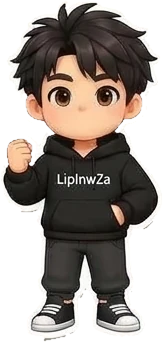
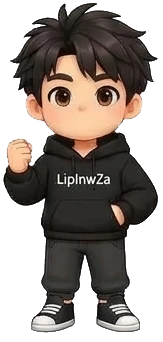
feat(v3.6): Glass Floating Tag ribbon, clean-cutout mascot & calibrated mouths

diff --git a/renderer/widgets.js b/renderer/widgets.js
@@ -834,10 +834,24 @@
     const rLayer = document.getElementById('ribbon-layer');
     if (beat.ribbon && theme.show_ribbon !== false) {
       const rCol = RIBBON_COLORS[beat.ribbon_color || 'red'] || RIBBON_COLORS.red;
+      const rStyle = theme.ribbon_style || 'glass_tag';
+      const rScale = springScale(age, 0.16).toFixed(3);
       if (theme.ribbon_style === 'pill') {
-        rLayer.innerHTML = `<div class="pill-ribbon" style="background:${rCol.bg};color:${rCol.fg};transform:scale(${springScale(age, 0.16).toFixed(3)});">${beat.ribbon}</div>`;
+        rLayer.innerHTML = `<div class="pill-ribbon" style="background:${rCol.bg};color:${rCol.fg};transform:scale(${rScale});">${beat.ribbon}</div>`;
+      } else if (rStyle === 'torn') {
+        rLayer.innerHTML = `<div class="torn-ribbon" style="background:${rCol.bg};color:${rCol.fg};transform:scale(${rScale}) rotate(-1.2deg);">${beat.ribbon}</div>`;
       } else {
-        rLayer.innerHTML = `<div class="torn-ribbon" style="background:${rCol.bg};color:${rCol.fg};transform:scale(${springScale(age, 0.16).toFixed(3)}) rotate(-1.2deg);">${beat.ribbon}</div>`;
+        const raw = String(beat.ribbon);
+        const sepIdx = raw.indexOf('·') !== -1 ? raw.indexOf('·') : raw.indexOf(':');
+        let innerHtml = '';
+        if (sepIdx > 0 && sepIdx < raw.length - 1) {
+          const leftPart = raw.slice(0, sepIdx).trim();
+          const rightPart = raw.slice(sepIdx + 1).trim();
+          innerHtml = `<span class="glass-tag-pill" style="background:${rCol.bg};color:${rCol.fg};">${leftPart}</span><span class="glass-tag-text">${rightPart}</span>`;
+        } else {
+          innerHtml = `<span class="glass-tag-dot" style="background:${rCol.bg};"></span><span class="glass-tag-text">${raw}</span>`;
+        }
+        rLayer.innerHTML = `<div class="glass-tag-ribbon" style="transform:scale(${rScale});">${innerHtml}</div>`;
       }
     } else {
       rLayer.innerHTML = '';

diff --git a/renderer/stage_template.html b/renderer/stage_template.html
@@ -178,7 +178,7 @@ html, body {
   height: 500px;
   width: auto;
   display: block;
-  filter: drop-shadow(5px 8px 0 rgba(24,27,38,0.28));
+  filter: drop-shadow(0px 10px 18px rgba(24,27,38,0.22));
 }
 #mascot-mouth-svg {
   position: absolute;
@@ -277,6 +277,46 @@ html, body {
   box-shadow: 0 8px 24px rgba(0,0,0,0.24);
   letter-spacing: 0.2px;
   transform-origin: center center;
+}
+.glass-tag-ribbon {
+  display: inline-flex;
+  align-items: center;
+  gap: 12px;
+  padding: 8px 20px 8px 10px;
+  border-radius: 15px;
+  background: rgba(255, 255, 255, 0.92);
+  backdrop-filter: blur(8px);
+  border: 2px solid rgba(24, 27, 38, 0.14);
+  box-shadow: 0 10px 26px rgba(15, 23, 42, 0.12);
+  color: #181B26;
+  font-size: 25px;
+  font-weight: 800;
+  letter-spacing: -0.2px;
+  transform-origin: center center;
+  max-width: 656px;
+}
+.glass-tag-pill {
+  display: inline-flex;
+  align-items: center;
+  padding: 4px 12px;
+  border-radius: 9px;
+  font-size: 20px;
+  font-weight: 800;
+  line-height: 1.25;
+  white-space: nowrap;
+}
+.glass-tag-dot {
+  width: 12px;
+  height: 12px;
+  border-radius: 999px;
+  flex: 0 0 12px;
+  margin-left: 6px;
+}
+.glass-tag-text {
+  line-height: 1.25;
+  white-space: nowrap;
+  overflow: hidden;
+  text-overflow: ellipsis;
 }
 #stage.layout-split #ribbon-layer { top: 96px; }
 #stage.layout-split #widget-stage {

diff --git a/skills/liplnwza-motion/SKILL.md b/skills/liplnwza-motion/SKILL.md
@@ -1,37 +1,222 @@
 ---
 name: liplnwza-motion
-description: สร้างวิดีโอโมชั่นแนวตั้ง LiplnwZa ตามมาตรฐาน v3.6 Living Stage (ต่อยอดจาก v3.4 Paper Stage 720x1280 @ 30fps, ล็อกซับสีกลางจอ y=672, มาสคอตเต็มตัว 16 ท่า + 8 มุมกล้อง, 7 ของเล่นคอมมิก + Sub-beat, 15 วิดเจ็ต + custom_html, ช่องทีวี Lemo) โดยตรวจต้นฉบับ เสนอข้อเสนอให้ฟิลิปอนุมัติ เรนเดอร์ QA ก่อนเต็มตอน และตรวจคุณภาพก่อนส่งไฟล์
+description: "LiplnwZa Motion Kit v3.6 Living Stage (backward-compatible with v3.4/v3.5): vertical 9:16 720x1280 @ 30fps/24fps Paper Stage (locked y=672 subtitles), 8 mascot blocking shots, 7 comic FX + sub-beat choreography, 16 poses + SVG mouths, custom_html + 15 widgets, Lemo TV/full_bleed slot, and 2-pass -14.5 LUFS audio."
 ---
 
-# LiplnwZa Motion (v3.6 Living Stage — ฐาน v3.4)
+# 🎬 LiplnwZa Motion Kit — Master Skill Specification (v3.4)
 
-> **ไฟล์นี้เป็นตัวชี้เท่านั้น — ไม่ใช่สเปกแยกอีกฉบับ**
-> สเปกหลักฉบับเดียวอยู่ที่ **`SKILL.md` ที่ราก repo** (`../../SKILL.md`)
-> อ่านไฟล์นั้นก่อนทุกครั้ง ถ้าข้อความใดในไฟล์นี้ขัดกับสเปกหลัก ให้ยึดสเปกหลัก
-> มาตรฐานงานใหม่คือ **v3.4 "Lean & Punchy" (ฟิลิปล็อก 2026-11-24)**:
-> Full-Canvas Paper Stage 9:16 `720x1280 @ 24fps` + Headless Chromium CDP,
-> มาสคอตเต็มตัว 16 ท่า + ปาก SVG 6 ทรง, 12 Animated Micro-Widgets,
-> ช่องทีวี `media_clip_frame` สำหรับคลิปสั้น 4–6 วิจาก Lemo-Opuscar,
-> ซับสีรายคำกึ่งกลางจอ `y=672` + Auto-Fit, Lip-Sync 2 โหมด
-> (Studio/MFA และ Express/24fps), BGM ลิขสิทธิ์ตัวเอง 3 แนว + 2-pass `-14.5 LUFS`
+> **ไฟล์นี้คือแหล่งความจริงเดียว (single source of truth) ของมาตรฐานงานใหม่.**
+> `skills/liplnwza-motion/SKILL.md` เป็นแค่ตัวชี้มาที่ไฟล์นี้ ห้ามตีความแยกกัน
+> `START_HERE.md` คือคู่มือเริ่มต้นด่วน ส่วน `layouts/aot/SPEC.md` คือสเปกของ
+> ตัวประกอบ AoT รุ่นเดิม (ดูหัวข้อสถานะเอนจินด้านล่าง) ถ้าเอกสารใดขัดกับ
+> ไฟล์นี้สำหรับงานใหม่ ให้ยึดไฟล์นี้เป็นหลัก
 >
-> ✅ **สถานะเอนจิน: IMPORTED 2026-11-24** — สคริปต์/แอสเสต v3.4
-> (`renderer/render_liplnwza_v3.py`, `renderer/stage_template.html`,
-> `renderer/widgets.js`, `renderer/audio_mixer.py`,
-> `assets_v3/mascot/mouth_anchors.json`, WebP 16 ท่า + 12 พร็อพใน `assets_v3/`)
-> อยู่ใน repo นี้แล้ว ตรวจรับตาม `V34-IMPORT-CHECKLIST.md` ที่ราก repo
-> ถ้าไฟล์เอนจิน v3.4 ขาดหาย ให้รายงานให้ Philip ทราบ ห้ามเรนเดอร์ปลอม
-> เครื่องยนต์เก่า `renderer/kit.py` ใช้ได้เฉพาะงานเดิมที่ฟิลิประบุชื่อไว้เท่านั้น
-> ห้ามสร้างงานใหม่บน SOP กระดาษเก่า
+> **เวอร์ชัน: v3.4 "Lean & Punchy" — ฟิลิปล็อก 2026-11-24**
+> ที่มา: หน้า Notion "LiplnwZa Motion Kit v3.4 — Production Spec, Installed
+> Skill & GitHub Sync Plan" (บันทึกผ่าน Gemini Task Web) + คำสั่งฟิลิป
+> 2026-11-24 เนื้อหาที่ Gemini เขียนไว้ใน Notion ถือเป็นข้อเสนอจนกว่าฟิลิป
+> จะยืนยันเอง — สเปกในไฟล์นี้คือส่วนที่ฟิลิปสั่งให้บันทึกไว้แล้ว
+>
+> ✅ **สถานะเอนจิน: IMPORTED 2026-11-24** — เอนจิน v3.4 นำเข้า repo นี้
+> แล้วจาก export ของสกิล `liplnwza-motion` บน Gemini Task Web
+> (คัดลอกแบบ byte-for-byte ตรวจรับตาม `V34-IMPORT-CHECKLIST.md`)
+> เรนเดอร์ด้วย `renderer/render_liplnwza_v3.py` ได้เลย แต่ต้องผ่าน
+> เกตเดียวในไฟล์นี้ก่อนเสมอ: ส่ง Beat Sheet ให้ฟิลิปอนุมัติก่อนสร้างงานจริง
+> ห้ามเรนเดอร์ปลอม ห้ามสร้างแอสเสตปลอม
 
-1. หา kit root แบบจำกัด: ใช้ LIP_MOTION_ROOT หากกำหนด หรือ kit ใน workspace ที่ผู้ใช้แนบ ให้มี START_HERE.md และ SKILL.md ที่ราก ถ้าไม่พบ ใช้โฟลเดอร์ที่เจ้าของระบุ https://drive.google.com/drive/folders/1sbnVgJ-w9AfzKlm35wJQXO-vhJPSCRK5 เพื่อดาวน์โหลดชุด หรือขอให้แนบ ZIP อย่าค้น private filesystem ทั้งเครื่อง สำหรับ installed skill ให้เปิด references/runtime.md เมื่อไม่แน่ใจการหา runtime และใช้ scripts/locate_kit.py ตรวจเฉพาะตำแหน่งที่ระบุ
-2. อ่าน SKILL.md ที่ราก repo (สเปกหลัก v3.4) แล้ว START_HERE.md, `layouts/aot/SPEC.md` (สเปกตัวประกอบเดิม — ส่วนที่ขัดกับ v3.4 ให้ยึด v3.4 สำหรับงานใหม่), references/WORKFLOW.md, STYLE.md; โหลด JOB_FORMAT.md เมื่อวางฉาก, AUDIO_AND_TIMING.md เมื่อเตรียมเสียง/คำ, ASSET_SOURCES.md เมื่อหาสื่อ, QUALITY.md ก่อนส่งออก
-3. ตรวจความสามารถที่มีจริง: เปิดต้นฉบับ/Drive, ดาวน์โหลด, filesystem, Python/FFmpeg, render และส่งไฟล์ได้หรือไม่ ถ้าไฟล์เอนจิน v3.4 ขาดหาย ให้รายงานให้ Philip ทราบ ห้ามอ้าง render pass; `python renderer/kit.py doctor` พิสูจน์เฉพาะเครื่องยนต์เก่าเท่านั้น
-4. รับเนื้อหา เก็บต้นทางและตรวจข้อกล่าวสำคัญ ห้ามใช้ชื่อ/thumbnail แทนเนื้อหาทั้ง YouTube ถ้าเข้าถึงไม่ได้บอกข้อจำกัดและขอ transcript/ไฟล์ที่จำเป็น
-5. สร้างงานตาม SOP ใน SKILL.md หลัก เสนอประเด็น บท เสียง ความยาว แนวภาพและสื่อ ต้นทุน/ข้อจำกัด ให้ Philip อนุมัติก่อนผลิตเต็ม ตัวอย่าง benchmark อนุมัติเฉพาะ technical test ของเครื่องเก่าเท่านั้น ห้ามใช้เป็นต้นแบบสไตล์
-6. หลังอนุมัติ ทำงานย่อยที่ย้อนกลับได้เองให้จบ ใช้ assets ของ Philip ก่อน แล้วค่อยหาสื่อที่มีสิทธิ์ตรงงาน จดที่มา และ label evidence/illustration/screen_recording ชัด ภาพประกอบงานใหม่ต้องเป็นภาพโค้ดล้วน + ช่องทีวี Lemo ตามสเปกหลัก ห้ามใช้ภาพ AI-generated เป็นภาพหลัก ไม่ใส่ Warodom likeness/voice/footage/course assets
-7. เตรียมเสียง words.json และ visemes.json จากเสียงจริง ไม่ใช้เวลาหารเท่าอ้าง sync ปากเป็น raster pronunciation approximation ไม่ใช่ rig 3D หรือ acoustic phoneme-perfect หากขาด alignment tools ให้บอกและเลือกทางที่มีจริง (Studio Mode ใช้ visemes.json จาก MFA; Express Mode สกัดท่าปาก 24fps จากเสียงอัตโนมัติ)
-8. เติม job spec ตรวจ validate และ preview บันทึก approval.json จากหลักฐาน owner จริง พร้อม digest ของ job/inputs รุ่นนั้น ห้ามอนุมัติตัวเอง ถ้าสาระ/เสียงหลักเปลี่ยนให้กลับตรวจใหม่ แต่ไม่ขออนุมัติซ้ำเพียงเพราะรายละเอียดประกอบงานเดิมเสร็จแล้ว
-9. Render ด้วยเอนจิน v3.4 (เรนเดอร์แผ่น QA `--qa-only` ตรวจภาพก่อนเรนเดอร์เต็มเสมอ) แล้วดู/ฟังและตรวจ QC ตาม QUALITY.md และเกณฑ์ v3.4 ใน SKILL.md หลัก ส่ง MP4, SRT, ซอร์สที่ส่งต่อได้, sources และรายงานสิ่งที่ตรวจจริง เก็บ SESSION.md ให้ AI ตัวถัดไปทำต่อได้
-10. ห้ามเผยแพร่ ซื้อบริการ ส่งหาคนอื่น โคลนเสียงใหม่ หรือเขียนทับต้นฉบับโดยไม่มีคำสั่งครอบคลุม ห้ามเรียกพร้อมโพสต์หากสิทธิ์/เนื้อหาค้างหรือฉบับเต็มยังไม่ผ่าน Philip ห้ามเผยแพร่รายละเอียดการโคลนเสียง (voice ID, ชื่อโมเดล, ค่า stability/similarity, ไฟล์เสียงอ้างอิง) ใน repo นี้หรือที่สาธารณะเด็ดขาด
-11. งานใหม่ใช้ความสามารถ **v3.6 Living Stage** (`--fps 30`, คงพื้นกระดาษ v3.4 + ล็อกซับ `y=672`, ใช้ `mascot_shot` สลับมุมไม่ซ้ำติดกันเกิน 2 บีต, ใช้ `comic_fx` / `data-at` จังหวะย่อย, **ห้าม** `mascot_flip` บนเสื้อที่มีคำว่า `LipinwZa`, รัน `--qa-only` ตรวจภาพก่อนเรนเดอร์เต็มทุกครั้ง และรัน `python -m unittest discover -s tests -p "test_v3*.py"` เมื่อแก้โค้ดเอนจิน)
+---
+
+## 📌 กฎเหล็กของระบบ (Golden Rules)
+
+1. **ห้ามแตะโฟลเดอร์ `_archive/` เด็ดขาด:** โฟลเดอร์นี้เป็นคลังเก็บของเก่า (v0.1) ที่มีบั๊กมุมปากมาสคอต (ถ้า checkout ใดไม่มีโฟลเดอร์นี้ กฎนี้ก็ไม่มีผลอะไร)
+2. **งานใหม่ใช้มาตรฐาน v3.4 ในไฟล์นี้เท่านั้น:** ห้ามสร้างงานใหม่บน SOP เก่าที่สอนใช้ `renderer/kit.py` แบบกระดาษ (`torn_paper`) อีก เครื่องยนต์เก่าที่อยู่ใน repo นี้ (`renderer/kit.py` v0.2.1 และ `layouts/aot/compose.py`) เป็น **legacy แช่แข็ง** — ใช้ได้เฉพาะงานเดิมที่ล็อกไว้และชุดทดสอบเท่านั้น ห้ามแก้พฤติกรรมเครื่องยนต์เก่าในงานอัปเกรดเอกสารนี้
+3. **ห้ามเผยแพร่รายละเอียดการโคลนเสียง:** ไฟล์เสียงอ้างอิง, voice ID, ชื่อโมเดลเสียง, ค่า stability/similarity หรือรายละเอียดการโคลนเสียงใดๆ **ห้ามอยู่ใน repo นี้หรือที่สาธารณะ** รายละเอียดงานเสียงของเจ้าของเก็บไว้นอก repo เท่านั้น เสียงโคลนใช้กับคลิปคอนเทนต์เท่านั้น — **คลิปขายสินค้าใช้เสียงอัดจริงของฟิลิปเท่านั้น ห้ามใช้เสียงโคลน** ข้อนี้อยู่เหนือกฎอื่นทั้งหมด
+4. **ฟิลิปอนุมัติบทและเสียงก่อนเรนเดอร์เสมอ** ห้ามเผยแพร่โดยไม่ได้รับอนุมัติ ห้ามเขียนทับไฟล์สำเร็จรูป — งานใหม่ทุกครั้งต้องเป็นไฟล์ใหม่
+5. **ข้อความบนจอมาจากบทที่อนุมัติเท่านั้น** ห้ามคิดคำใหม่ใส่เอง
+
+---
+
+## 🏗 สถาปัตยกรรม v3.4 (2-Tier Architecture)
+
+- **Tier 1 — เวทีหลัก:** Full-Canvas Paper Stage 9:16 สไตล์ Warodom Paper-Cut Collage หนึ่งเวทีเต็มจอ
+- **Tier 2 — ตัวละคร + วิดเจ็ต + จอทีวี:** มาสคอต LiplnwZa เต็มตัว + 12 Animated Micro-Widgets + ช่องจอทีวี `media_clip_frame` สำหรับฉายคลิปสั้นจากสกิล Lemo-Opuscar โดยไม่ทำให้เอกลักษณ์ช่องแตก
+- **เอนจินเรนเดอร์:** Offline Headless Chromium CDP (`JPEG q=92`, Lazy WebP Loading, เร็ว ~7.2 fps, ใช้ฟอนต์ระบบ `NotoSansThai-Bold.ttf` ไม่ต้องพกไฟล์ `.ttf`)
+- **เอาต์พุต:** H.264, `-movflags +faststart`, แบ่งเรนเดอร์ `--chunk-frames 120`
+- **ไฟล์เอนจิน (นำเข้าแล้ว 2026-11-24):** `renderer/render_liplnwza_v3.py`, `renderer/stage_template.html`, `renderer/widgets.js`, `renderer/audio_mixer.py`, `assets_v3/mascot/mouth_anchors.json` + แอสเสต WebP ใน `assets_v3/` (ดูรายการตรวจรับใน `V34-IMPORT-CHECKLIST.md`) — ปาก 6 ทรงเป็น SVG แบบ procedural ที่ `widgets.js` สร้างขึ้น ไม่ใช่ไฟล์ SVG แยก
+
+---
+
+## 📐 เลย์เอาต์ที่ล็อก (720×1280 @ 24fps)
+
+| โซน | ตำแหน่ง | กฎ |
+| --- | --- | --- |
+| ริบบิ้นบน | `y=144` | ป้ายหัวข้อของเวที |
+| เวที 12 วิดเจ็ต | `y=214..659` | วิดเจ็ตแอนิเมชัน + พื้นหลังของเวที กล้องและทรานซิชั่นทำงานเฉพาะโซนนี้ |
+| ซับสีรายคำ | **`y=672` กึ่งกลางจอ** | พ้นแถบ UI TikTok 100% + Auto-Fit กันล้นขอบ (ดูหัวข้อซับไตเติล) |
+| มาสคอตเต็มตัว | ล่างซ้าย ขนาด `500px` | **ยืนนิ่งนอก Camera Rig** — หายใจเบาๆ `±2.2px` เท่านั้น ไม่เด้งตามเสียง |
+
+- **กล้อง 4 แบบ** (`push_in`, `pull_out`, `focus_tv`, `punch_in`) และ **ทรานซิชั่นกระดาษ 4 แบบ** (`paper_slide`, `page_peel`, `whip_zoom`, `ink_flash`) ทำงานเฉพาะเวที Widget + พื้นหลังเท่านั้น ห้ามขยับมาสคอตหรือซับ
+- มาสคอตต้อง settle ก่อนจุดตัดเสมอ โมชันห้ามวิ่งชนจุดตัดโดยไม่มีจังหวะหยุด
+
+---
+
+## 🎭 มาสคอต + ปาก + พร็อพ/บอทสมทบ
+
+- **มาสคอตเต็มตัว 16 ท่า** — Mouthless Clean Plate WebP รวม 220.8 KB: `wave`, `pointer`, `clipboard`, `confident`, `magnify`, `laptop_focus`, `laptop_smile`, `cheer`, `facepalm`, `thinking_chin`, `shocked`, `holding_card`, `thumbs_up_full`, `newspaper_hold`, `shrug`, `idea_finger`
+- **ปากเวกเตอร์ SVG 6 ทรง** (`CLOSED`, `AA`, `EE`, `OH`, `OO`, `FV`) ไร้รอยซ้อน เปลี่ยนท่าปากต่อเนื่อง ไม่สลับสไปรต์แบบตัดทันที ตำแหน่งปากอ้างอิง `mouth_anchors.json`
+- **ชุดพร็อพ & บอทสมทบ 12 ชิ้น** — WebP โปร่งใส รวม 88.4 KB ใช้ Lazy Asset Loading: `bot_curious`, `bot_cheer`, `bot_shock`, `badge_alert`, `badge_check`, `badge_question`, `pointer_stick`, `clipboard`, `magnifying_glass`, `laptop`, `newspaper`, `lightbulb`
+- **มาสคอตมาจาก master lock + rig เท่านั้น ห้ามเจนมาสคอตใหม่ด้วย AI** ท่าเพิ่มต้องมาจากร่างเดิม
+
+---
+
+## 🖼 ภาพประกอบ — ภาพโค้ดล้วน + Lemo TV Slot เท่านั้น
+
+- **ภาพประกอบของงานใหม่ = ภาพโค้ดล้วน (HTML/CSS/SVG + Animated Micro-Widgets) เท่านั้น** ห้ามใช้ภาพ AI-generated เป็นภาพหลัก ห้ามใช้ภาพถ่ายเป็นภาพหลัก (กฎเดียวกับ `layouts/aot/SPEC.md` ฉบับอัปเดต)
+- **Lemo TV Slot (`media_clip_frame`):** ช่องจอทีวีกรอบกระดาษสำหรับแปะคลิปสั้น **4–6 วินาที** จากสกิล Lemo-Opuscar **ทั้ง 25 แบบ** ใช้กล้อง `focus_tv` ตอนฉาย คลิปที่แปะต้องมีสิทธิ์ใช้ชัดและบันทึกที่มาไว้ใน job manifest
+- ทุกสื่อที่ใช้ต้องมีที่มาใน `media/_ที่มา.txt` และลงทะเบียนใน `job.json` ให้ครบตาม schema — อ่าน [คู่มือแหล่งสื่อและสิทธิ์](assets/ASSET_SOURCES.md) ก่อนเลือกสื่อทุกครั้ง อย่าอนุมัติหรือเผยแพร่ job ที่ยังตรวจ license ของไฟล์จริงไม่ครบ
+
+---
+
+## 💬 ซับไตเติลสีรายคำ
+
+- วาง**กึ่งกลางจอที่ `y=672`** พ้นแถบ UI TikTok 100% พร้อม **Auto-Fit กันล้นขอบ**
+- แยกเป็นคำ/วลีสั้นก่อนเรนเดอร์เสมอ ห้ามเอาประโยคยาวทั้งก้อนขึ้นเป็นชิปเดียว
+- เวลาของคำมาจาก pipeline จับเวลาเท่านั้น (MFA Studio Mode หรือ Express Mode) ห้ามเขียนเวลาด้วยมือ ห้ามกะเวลาจากความยาวตัวอักษร
+- ฟอนต์เรนเดอร์ของ v3.4 คือฟอนต์ระบบ `NotoSansThai-Bold.ttf` (ดูหัวข้อสถาปัตยกรรม) ส่วนงาน legacy ยังใช้ Prompt-Bold ตามสเปกเดิมของมัน
+
+---
+
+## 👄 Lip-Sync 2 โหมด
+
+- **Studio Mode:** อ่าน `visemes.json` จาก MFA (การจัดแนวเสียงกับบทที่อนุมัติแล้ว)
+- **Express Mode:** สกัดท่าปาก 24fps จากคลื่นเสียง `vo_path` อัตโนมัติ ไม่ต้องมีไฟล์ visemes มาก่อน
+- ทั้งสองโหมดขับปาก SVG 6 ทรงเดียวกัน — โหมดเป็นวิธีได้มาซึ่งท่าปาก ไม่ใช่คนละระบบปาก
+
+---
+
+## 🔊 เสียง & BGM (ลิขสิทธิ์ตัวเอง)
+
+- **BGM 3 แนว สร้างอัตโนมัติใน `/tmp/liplnwza_v3_bgm/`:** `funk_brass` — **เพลงหลัก 118 BPM** (Cory Wong Funk + Brass Stabs), `warm_groove` (108 BPM), `mystery_pulse` (104 BPM)
+- **Mid-Band Ducking (300Hz–4kHz)** ระหว่างเสียงพากย์กับ BGM + Foley ตามเหตุการณ์ภาพ
+- **2-pass `-14.5 LUFS` + faststart** สำหรับงานใหม่ v3.4 (ค่า `-16 LUFS` ในสเปก/เกทเดิมใช้กับเครื่องยนต์ legacy เท่านั้น)
+- **ไม่มีไฟล์เสียงจริง bundle ลง repo** และห้ามนำเสียงสังเคราะห์มาเสนอว่าเป็น SFX จริง — เสียงสังเคราะห์ใช้ทดสอบโค้ดใน `/tmp` ได้เท่านั้น
+
+---
+
+## ⚡ กระบวนการทำงาน 4 ขั้นตอน (SOP — v3.4)
+
+### ขั้นที่ 1: รับ Input จากฟิลิป (Ingest & Analyze)
+สิ่งที่ฟิลิปจะส่งมาให้:
+1. **ไฟล์เสียงพากย์ที่ผ่านอนุมัติแล้ว** (`voice.mp3` หรือ `voice.wav`) — เสียงที่เจ้าของฟังอนุมัติแล้ว หรือไฟล์เสียงอัดจริงที่ฟิลิปส่งมาเอง
+2. **หัวข้อ/เป้าหมายของคลิป** (Topic Brief)
+3. **คลิปสำหรับช่องทีวี** (ถ้ามี — คลิปสั้น 4–6 วิจาก Lemo-Opuscar พร้อมที่มา/สิทธิ์)
+
+### ขั้นที่ 2: วางแผนก่อนสร้าง (Pre-production Beat Sheet)
+**ห้ามเรนเดอร์ทันที** ให้สร้างแผนฉากส่งให้ฟิลิปตรวจก่อน:
+- แบ่งฉาก 5–6 ฉากย่อยตามจังหวะเว้นวรรคของเสียงพูด
+- กำหนดวิดเจ็ต 12 ตัว กล้อง 4 แบบ ทรานซิชั่น 4 แบบ และช่องทีวี (ถ้ามี) ต่อฉาก
+- เลือกท่ามาสคอต 16 ท่าให้ตรงกับอารมณ์ฉาก
+- ส่ง Beat Sheet ให้ฟิลิปตรวจและรอคำสั่ง **"อนุมัติสร้าง"**
+
+### ขั้นที่ 3: ประกอบไฟล์งาน (Assembly & Automation)
+1. เตรียมชุดรับมอบเสียง: `voice.wav` + `words.json` (เวลาระดับคำที่ตรวจเทียบเสียงจริงแล้ว) + `visemes.json` (Studio Mode) — Express Mode สกัดท่าปากจากเสียงอัตโนมัติแทนได้
+2. เขียน job spec ของงาน (ฉาก ข้อความ ท่า วิดเจ็ต กล้อง ทีวีสล็อต) ตาม schema ของเอนจิน v3.4 ใน `references/scene_spec_schema.md`
+3. สร้างค่าอนุมัติ (job digest) ใส่ใน `approval.json` (`status: "approved"`) จากหลักฐานการอนุมัติของเจ้าของงานจริง ห้ามอนุมัติตัวเอง
+
+### ขั้นที่ 4: สั่งเรนเดอร์และตรวจ QC (Render & Delivery)
+1. เรนเดอร์ด้วยเอนจิน v3.4 (`renderer/render_liplnwza_v3.py`) ที่ 720×1280 @ 24fps แบบ `--chunk-frames 120` — เรนเดอร์แผ่น QA (`--qa-only`) ตรวจภาพก่อนเรนเดอร์เต็มเสมอ
+2. ตรวจ QC ตามเกณฑ์ด้านล่างจากไฟล์ MP4 จริง ไม่ใช่จากแผน
+3. ส่ง MP4, SRT, ซอร์สที่ส่งต่อได้, sources และรายงานสิ่งที่ตรวจจริง เก็บ SESSION.md ให้ AI ตัวถัดไปทำต่อได้
+
+---
+
+## 🎯 เกณฑ์การผ่าน QC ที่ต้องรายงานเจ้าของงาน (งานใหม่ v3.4)
+- [ ] ขนาดภาพ: 720×1280 (9:16 แนวตั้ง), 24 fps, faststart
+- [ ] Decode Errors: 0
+- [ ] ความดังเสียง: 2-pass −14.5 LUFS (True Peak ≤ −1.0 dBTP) วัดจาก MP4 จริง
+- [ ] ซับไตเติล: อยู่กึ่งกลาง y=672, Auto-Fit ไม่ล้นขอบ, เด้งคำต่อคำตรงเสียงพูด, ตัวอักษรไทยสระ/วรรณยุกต์ไม่ซ้อนทับ
+- [ ] มาสคอต: ยืนนิ่งนอก Camera Rig มีแค่หายใจ ±2.2px ปาก SVG ขยับตามเสียงจริง ไร้รอยซ้อน
+- [ ] กล้อง/ทรานซิชั่น: ทำงานเฉพาะเวที Widget + พื้นหลัง ไม่ขยับมาสคอตหรือซับ
+- [ ] ภาพประกอบ: โค้ดล้วน + ช่องทีวีตามสิทธิ์เท่านั้น ไม่มีภาพ AI-generated เป็นภาพหลัก
+
+---
+
+## 🔒 ด่านตรวจสายพาน P0/P1 (ใช้กับทุกเอนจิน — เครื่องมือที่ระบุคือชุดปัจจุบันใน repo)
+
+เครื่องมือเหล่านี้เป็นด่านตรวจก่อน/หลังประกอบ แยกจาก QC ท้ายคลิป — ห้ามใช้แทนกัน และห้ามข้ามด่านใดด่านหนึ่งโดยไม่บอกเจ้าของงาน เอนจิน v3.4 ที่นำเข้าต้องบังคับใช้หลักการเดียวกันนี้:
+
+- **ก่อนประกอบ — `renderer/preflight.py`**: ตรวจ hash เสียงที่ล็อกไว้, คำต่อกันเท่าบทเป๊ะ, provenance ตรง, บัญชีภาพครบ (ชื่อตรง manifest เท่านั้น ห้ามเดาชื่อไฟล์แบบ glob), ขอบบีตตรง onset ภายใน 0.02 วิ, จำนวนเฟรมจากความยาวเสียงจริง ถ้าผิดข้อใดข้อหนึ่งให้หยุดทันที ห้ามประกอบต่อ
+- **จับเวลาด้วย MFA — `renderer/mfa_to_cues.py`**: รับไฟล์ MFA JSON + บท + merge-map ของงานนั้น แล้วออกชิปพร้อม provenance sidecar ต่อตัวอักษรต้องเท่าบทเป๊ะ ไม่งั้น fail ดังๆ ไม่เดา ข้อมูลคำ/merge-map เป็นของงานนั้นๆ ห้าม hardcode ลงเครื่องมือกลาง
+- **ปากซ้ำเวลา — `renderer/dedup_visemes.py`**: รวม viseme ให้เหลือตัวเดียวต่อ timestamp (ตัวสุดท้ายชนะอย่างชัดเจน) ก่อนส่งให้ rig — ห้ามให้ rig เลือกตามลำดับไฟล์แบบเงียบๆ
+- **QC ภาพตามเฟรม — `tests/qc.py`**: ดึงเฟรมตามเลขเฟรมเท่านั้น จุดตัด = `ceil(boundary × fps)` ตรวจ 3 เฟรมต่อจุดตัด (ก่อน/ที่/หลังจุดตัด)
+- **หลังเรนเดอร์ — `renderer/post_render_gate.py`**: loudnorm 2-pass บนไฟล์ mp4 แล้ว gate จากไฟล์ mp4 จริง (ไม่ใช่จาก wav): ความยาว ±0.05 วิ, จำนวนเฟรมครบ, ค่า LUFS/TP ตามเกณฑ์ของเอนจินที่ใช้ กับดักที่วัดมาแล้ว: โหมด linear ไม่จำกัดพีคจริง จึงต้องตั้งเป้า TP −2.0 ในฟิลเตอร์ + บังคับ AAC 192k ไม่งั้นพีคทะลุได้
+- **บัญชีภาพงาน — `renderer/verify_manifest.py --job-manifest`**: ตรวจบัญชีภาพของงาน (ไฟล์ครบ, สถานะ accepted, sha ตรง, ขนาดขั้นต่ำตามสเปกของเอนจินที่ใช้, ไฟล์ที่ถูกตีกลับต้องไม่อยู่ในโฟลเดอร์ภาพที่ใช้ประกอบ)
+- **วินัยสคริปต์เสียง**: สคริปต์รันเสียงทุกตัวต้องขึ้นต้นด้วย `set -euo pipefail`, ออกด้วย exit code ของตัวเจนเสียงทันทีถ้าพัง (ห้ามให้คำสั่งท้ายไฟล์กลบโค้ดพังจนรายงานว่าสำเร็จ), copy takes ไปโฟลเดอร์ถาวรทันทีที่เจนจบแล้วตรวจจำนวนไฟล์ครบก่อนจบสคริปต์
+- **กลไก guard ของ offset**: เครื่องมือกลางห้าม hardcode ค่า offset ใดๆ เป็น default — แต่ละงานล็อกค่าของตัวเองไว้ใน manifest ของงาน และ preflight ตรวจว่าค่าไม่ขยับโดยไม่มี sync test ที่เจ้าของงานตัดสิน การเปลี่ยน offset เป็นเรื่อง P2 ต้องให้เจ้าของงานตัดสินแยกต่างหาก
+- **บทเรียนจากสายประกอบที่แก้แล้ว (ห้ามทำซ้ำ)**: จุดตัดต้องเป็นเลขเฟรมจำนวนเต็ม, เฟรมแรกต้องเป็นบีตแรกเสมอ, หน้าต่างแถวซับห้ามซ้อนกัน, จำนวนเฟรมต้องคำนวณจากเสียงจริง, path ต้องสัมพัทธ์จากไฟล์สคริปต์, โซนชิปกับมาสคอตต้องห่างกันอย่างน้อย 20px
+
+---
+
+## 🛠 โครงสร้างไฟล์ใน repo (Repository Architecture)
+
+```text
+liplnwza-motion-kit/
+├── SKILL.md                          ← [สเปกหลักฉบับนี้ — แหล่งความจริงเดียวของ v3.4]
+├── skills/liplnwza-motion/SKILL.md   ← ตัวชี้มาที่ SKILL.md หลัก + กติกาควบคุมงาน (ห้ามตีความแยก)
+├── START_HERE.md                     ← คู่มือเริ่มต้นด่วน (อ่านไฟล์นี้ก่อนเมื่อเริ่มงานใหม่)
+├── V34-IMPORT-CHECKLIST.md           ← รายการตรวจรับการนำเข้าเอนจิน/แอสเสต v3.4
+├── README.md                         ← ภาพรวมคลังโค้ด, Quickstart, และคู่มือติดตั้ง
+├── AGENTS.md                         ← สเปกยุคแรก (legacy) สำหรับสไตล์กระดาษ — อ่านหมายเหตุหัวไฟล์ก่อนใช้
+├── renderer/                         ← เครื่องยนต์ใน repo
+│   ├── v34_spec.py                   ← ค่าคงที่สเปก v3.4 ที่ล็อกไว้ (อ่านอย่างเดียว ไม่ใช่เอนจินเรนเดอร์)
+│   ├── render_liplnwza_v3.py         ← [v3.4] เอนจินเรนเดอร์ CDP หลัก
+│   ├── audio_mixer.py                ← [v3.4] มิกซ์เสียง + BGM + Foley + loudnorm
+│   ├── stage_template.html           ← [v3.4] เทมเพลต Full-Canvas Paper Stage
+│   ├── widgets.js                    ← [v3.4] 12 วิดเจ็ต + ปาก SVG แบบ procedural
+│   ├── kit.py                        ← [LEGACY แช่แข็ง] CLI เครื่องยนต์กระดาษ v0.2.1
+│   ├── new_job.py / prepare_cues.py / preflight.py / mfa_to_cues.py / ...
+│   │                               ← [LEGACY] เครื่องมือด่านตรวจ/ประกอบเดิม — ใช้กับงานเดิมเท่านั้น
+│   └── verify_manifest.py            ← ตรวจ manifest-sha256.json ของ repo + บัญชีภาพของงาน
+├── assets_v3/                        ← [v3.4] มาสคอต 16 ท่า + พร็อพ 12 ชิ้น (WebP) + mouth_anchors.json
+├── layouts/aot/                      ← [LEGACY แช่แข็ง] ตัวประกอบ AoT (compose.py, 1080x1920 @ 30fps) + SPEC.md
+├── assets/                           ← แอสเสตมาตรฐาน (มาสคอต mouth_rig เดิม, ฟอนต์ Prompt-Bold)
+├── brand/                            ← คลังภาพมาสคอต LiplnwZa ต้นฉบับ
+├── examples/                         ← งานตัวอย่างและเกณฑ์มาตรฐาน (benchmark15 = เทสต์เทคนิคเครื่องเก่าเท่านั้น)
+├── references/                       ← JOB_FORMAT / AUDIO_AND_TIMING / QUALITY / STYLE / WORKFLOW
+└── tests/                            ← ชุดทดสอบระบบอัตโนมัติ (รันด้วย python -m unittest discover -s tests)
+```
+
+---
+
+## 📜 ประวัติเวอร์ชันย่อ
+
+- **v0.2.1** — เครื่องยนต์กระดาษ `renderer/kit.py` + Clean Plate rig 6 ท่า (สเปกเดิมอยู่ใน `AGENTS.md`)
+- **AoT layout (ล็อก 2026-11-02)** — เลย์เอาต์หลักของงานเดิม: บนกรอบภาพ / กลางซับชิป / ล่างมาสคอต 1080×1920 @ 30fps ตัวประกอบ `layouts/aot/compose.py`
+- **v3.4 (ล็อก 2026-11-24; เอนจินนำเข้าแล้ว 2026-11-24)** — มาตรฐานงานใหม่ในไฟล์นี้: Full-Canvas Paper Stage 720×1280 @ 24fps + CDP + 12 วิดเจ็ต + ช่องทีวี Lemo — รายละเอียดการเปลี่ยนแต่ละครั้งดูใน `CHANGELOG.md`
+---
+
+## 🚀 อัปเกรด v3.5 Modular & v3.6 "Living Stage" (ต่อยอดจากฐาน v3.4 — Backward-Compatible 100%)
+
+> **ฟิลิปล็อกทิศทาง 2026-11-26:** คงเอกลักษณ์ **พื้นกระดาษตาราง v3.4 + ริบบิ้น + ดาว + ซับสีรายคำกลางจอ `y=672` (พ้น UI TikTok)** ไว้ครบ 100% แต่ปลดล็อกให้เวทีมีชีวิตไม่ซ้ำเทมเพลตเดิม (ทุกสเปก v3.4 เดิมยังรันได้เหมือนเดิมทุกพิกเซล)
+
+### 1. v3.5 Modular Knobs (opt-in)
+- `theme` (ระดับ spec หรือราย beat): `show_stars`, `show_ribbon`, `ribbon_style` (`glass_tag` ค่าเริ่มต้นใหม่ | `pill` | `torn`), `bg_color`, `bg_css`, `css`, `chips_y`, `mascot_mode` (`standard` | `mini_left` | `mini_right` | `hidden`)
+- `layout` (ราย beat): `standard` (v3.4 เดิม) | `split` | `full_stage`
+- `widget.type: "custom_html"`: สร้างฉากเฉพาะตอนด้วย HTML/CSS/SVG ได้อิสระ (รองรับ `{{AGE}}`, `{{PROGRESS}}`, `{{PCT}}`)
+- `media_clip_frame`: รองรับ `fit: "full_bleed"` (720×1280 เต็มจอสำหรับคลิป Lemo-Opuscar 100 สไตล์)
+
+### 2. v3.6 Living Stage (แนะนำสำหรับงานใหม่)
+- **30fps + สีมาตรฐานสตรีมมิง:** ส่ง `--fps 30` หรือใส่ `"fps": 30` ใน `scene_spec.json` — เรนเดอร์ออก `yuv420p` (`color_range=tv`, `bt709`) และซิงก์ `visemes.json` + Lemo clips ที่ 30fps อัตโนมัติ
+- **8 มุมกล้องมาสคอต (`beat.mascot_shot` — ทุกมุมเว้นพ้นซับ `y=672`):** `left_standard`, `right_standard`, `center_stage`, `closeup_left`, `closeup_right`, `closeup_center`, `peek_left`, `peek_right` + ท่าเปิดตัว `mascot_enter` (`pop` | `slide_left` | `slide_right` | `rise`) และสลับฝั่งคู่หู `sidekick_pos` อัตโนมัติไม่ให้ชนกัน
+- **7 Comic FX (`beat.comic_fx`) + ฟองคำพูด (`mascot_bubble` / `sidekick_bubble`):** `sunburst`, `speed_lines`, `stamp_slam`, `comic_burst`, `magnifying_lens`, `arrow_callout`, `speech_bubble` พร้อมเสียง Foley อัตโนมัติใน `audio_mixer.py` (`synth_stamp_thud`, `synth_boing`, `synth_cash_ding`) และ `beat.sfx_cues`
+- **Sub-Beat Choreography (`data-at` / `data-anim` ใน `custom_html`):** รองรับ `pop`, `slam`, `slide-up/left/right`, `count`, `bar`, `strike`, `type`, `fade` (deterministic 100% ทุกเฟรม)
+- **3 วิดเจ็ตคอมมิกใหม่ใน `WIDGET_MAP`:** `evidence_card`, `live_calc_receipt`, `bar_compare`
+
+### 3. กฎป้องกันบั๊กถาวร (Regression Guards)
+1. **ห้ามใช้ `mascot_flip: true` กับมาสคอตที่เสื้อมีตัวหนังสือ** (เช่นคำว่า `LipinwZa` บนฮู้ด จะกลับด้านอ่านไม่ออก)
+2. **ห้ามซ้ำ `mascot_shot` ติดกันเกิน 2 บีต** และทุกบีตที่ยาวเกิน 2.5 วิ ควรมีจังหวะภาพย่อย (`data-at` หรือ `comic_fx`) อย่างน้อย 2 จุด
+3. **เอฟเฟกต์หมุนเต็มจอ (`sunburst` ฯลฯ — `PM-v36-sunburst-clip`):** ต้องใช้ `<svg>` สี่เหลี่ยมจัตุรัสศูนย์กลาง `(0,0)` ขนาดใหญ่กว่า `2 × (max_corner_dist + camera_margin)` (`3200×3200`, `r=1600`) และให้ `#bg-fx-layer` เป็นตัวคลิปหลังหมุนเท่านั้น (`speed_lines` ต้อง `rOut >= 1400`)
+4. **พร็อพสติกเกอร์ (`assets_v3/props/*.webp`):** ทุกไฟล์ต้องมีขอบโปร่งใสครบทั้ง 4 ด้าน (`edge_touch == 0`, ตรวจด้วย `tests/test_v36_living_stage.py`)
+5. **ความปลอดภัยโค้ด/คลังสาธารณะ:** ห้ามใส่ API keys หรือรายละเอียดโคลนเสียง (voice ID / model / stability / reference audio) ลงใน repo เด็ดขาด
+
+- **v3.5 Modular & v3.6 Living Stage (2026-11-26)** — เพิ่ม `theme`/`layout`/`custom_html`/`full_bleed` (v3.5), 8 มุมมาสคอต + 7 Comic FX + Sub-Beat + 3 วิดเจ็ตใหม่ + `30fps` + `yuv420p tv` + แก้ `sunburst`/`speed_lines` ครอบเต็มจอ (`PM-v36-sunburst-clip`) + ซ่อมขอบบอท 3 ตัว (`edge_touch == 0`) + ปรับพาดหัว `Glass Floating Tag` + Clean Cutout มาสคอต 16 ท่าไร้ขอบขาว & จูน `mouth_anchors.json` — เทสต์ผ่าน 22/22 ข้อ

diff --git a/SKILL.md b/SKILL.md
@@ -200,7 +200,7 @@ liplnwza-motion-kit/
 > **ฟิลิปล็อกทิศทาง 2026-11-26:** คงเอกลักษณ์ **พื้นกระดาษตาราง v3.4 + ริบบิ้น + ดาว + ซับสีรายคำกลางจอ `y=672` (พ้น UI TikTok)** ไว้ครบ 100% แต่ปลดล็อกให้เวทีมีชีวิตไม่ซ้ำเทมเพลตเดิม (ทุกสเปก v3.4 เดิมยังรันได้เหมือนเดิมทุกพิกเซล)
 
 ### 1. v3.5 Modular Knobs (opt-in)
-- `theme` (ระดับ spec หรือราย beat): `show_stars`, `show_ribbon`, `ribbon_style` (`torn` | `pill`), `bg_color`, `bg_css`, `css`, `chips_y`, `mascot_mode` (`standard` | `mini_left` | `mini_right` | `hidden`)
+- `theme` (ระดับ spec หรือราย beat): `show_stars`, `show_ribbon`, `ribbon_style` (`glass_tag` ค่าเริ่มต้นใหม่ | `pill` | `torn`), `bg_color`, `bg_css`, `css`, `chips_y`, `mascot_mode` (`standard` | `mini_left` | `mini_right` | `hidden`)
 - `layout` (ราย beat): `standard` (v3.4 เดิม) | `split` | `full_stage`
 - `widget.type: "custom_html"`: สร้างฉากเฉพาะตอนด้วย HTML/CSS/SVG ได้อิสระ (รองรับ `{{AGE}}`, `{{PROGRESS}}`, `{{PCT}}`)
 - `media_clip_frame`: รองรับ `fit: "full_bleed"` (720×1280 เต็มจอสำหรับคลิป Lemo-Opuscar 100 สไตล์)
@@ -219,4 +219,4 @@ liplnwza-motion-kit/
 4. **พร็อพสติกเกอร์ (`assets_v3/props/*.webp`):** ทุกไฟล์ต้องมีขอบโปร่งใสครบทั้ง 4 ด้าน (`edge_touch == 0`, ตรวจด้วย `tests/test_v36_living_stage.py`)
 5. **ความปลอดภัยโค้ด/คลังสาธารณะ:** ห้ามใส่ API keys หรือรายละเอียดโคลนเสียง (voice ID / model / stability / reference audio) ลงใน repo เด็ดขาด
 
-- **v3.5 Modular & v3.6 Living Stage (2026-11-26)** — เพิ่ม `theme`/`layout`/`custom_html`/`full_bleed` (v3.5), 8 มุมมาสคอต + 7 Comic FX + Sub-Beat + 3 วิดเจ็ตใหม่ + `30fps` + `yuv420p tv` + แก้ `sunburst`/`speed_lines` ครอบเต็มจอ (`PM-v36-sunburst-clip`) + ซ่อมขอบบอท 3 ตัว (`edge_touch == 0`) — เทสต์ผ่าน 22/22 ข้อ
+- **v3.5 Modular & v3.6 Living Stage (2026-11-26)** — เพิ่ม `theme`/`layout`/`custom_html`/`full_bleed` (v3.5), 8 มุมมาสคอต + 7 Comic FX + Sub-Beat + 3 วิดเจ็ตใหม่ + `30fps` + `yuv420p tv` + แก้ `sunburst`/`speed_lines` ครอบเต็มจอ (`PM-v36-sunburst-clip`) + ซ่อมขอบบอท 3 ตัว (`edge_touch == 0`) + ปรับพาดหัว `Glass Floating Tag` + Clean Cutout มาสคอต 16 ท่าไร้ขอบขาว & จูน `mouth_anchors.json` — เทสต์ผ่าน 22/22 ข้อ
